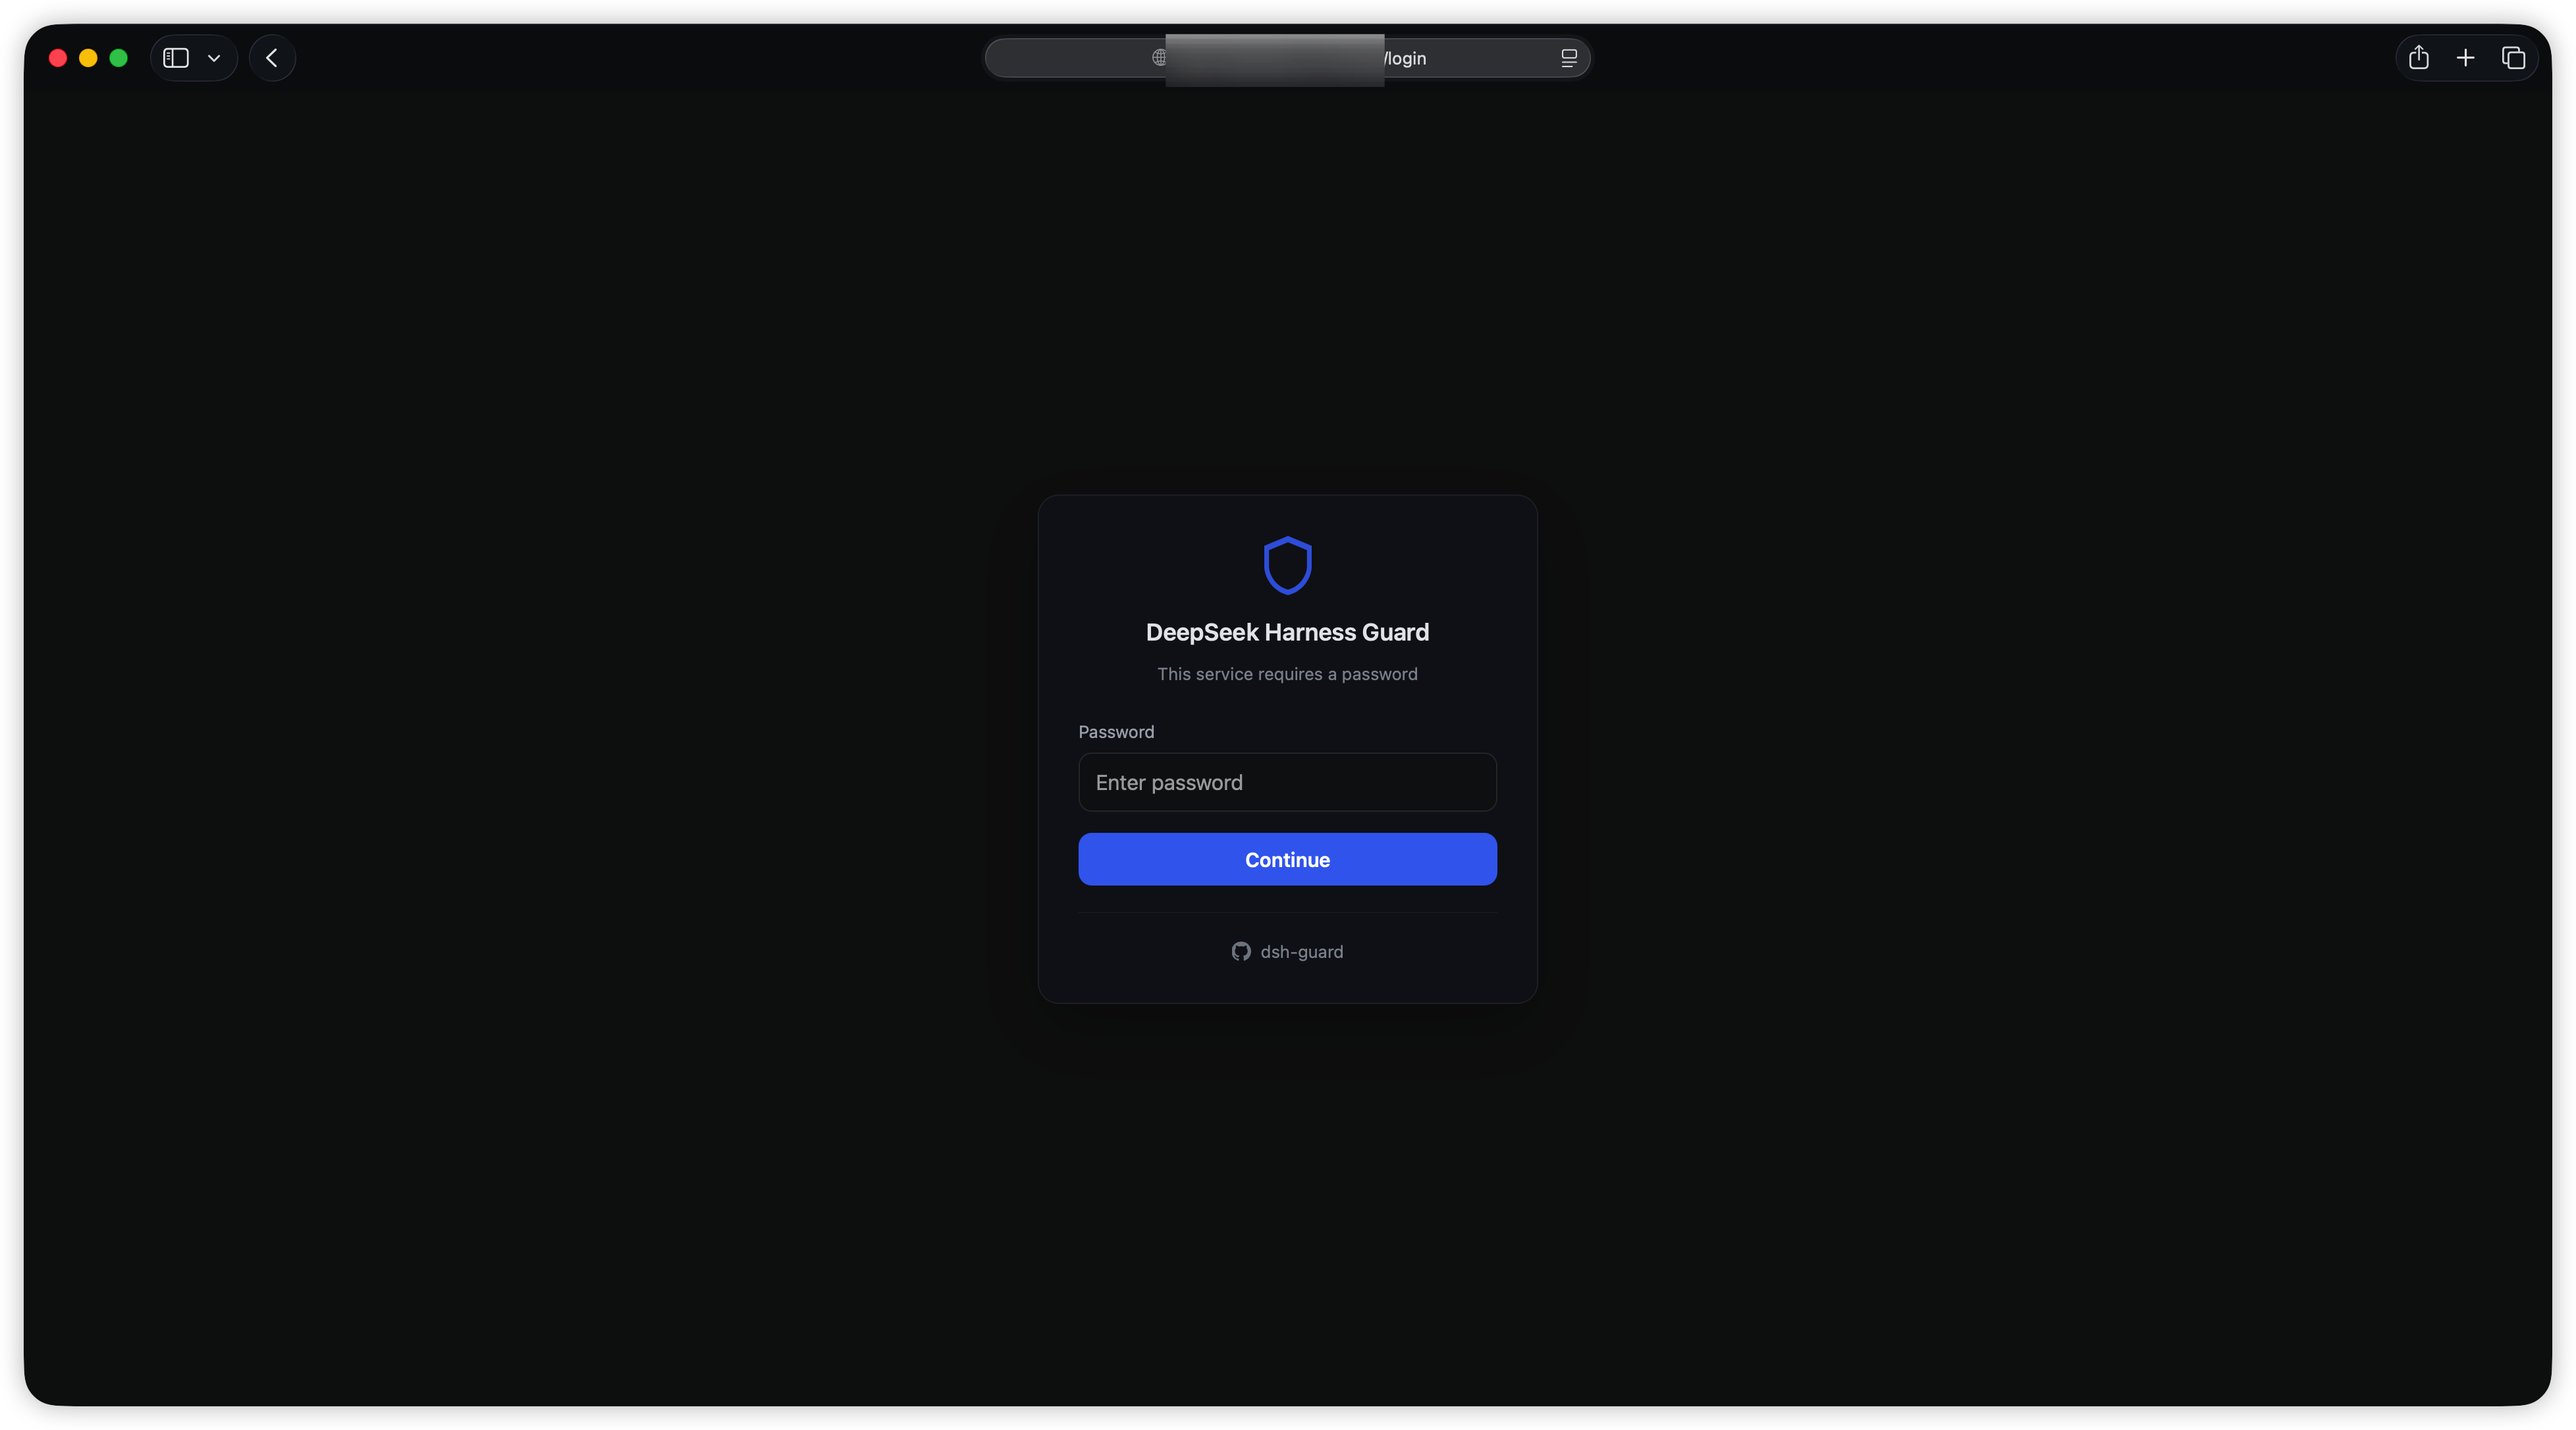
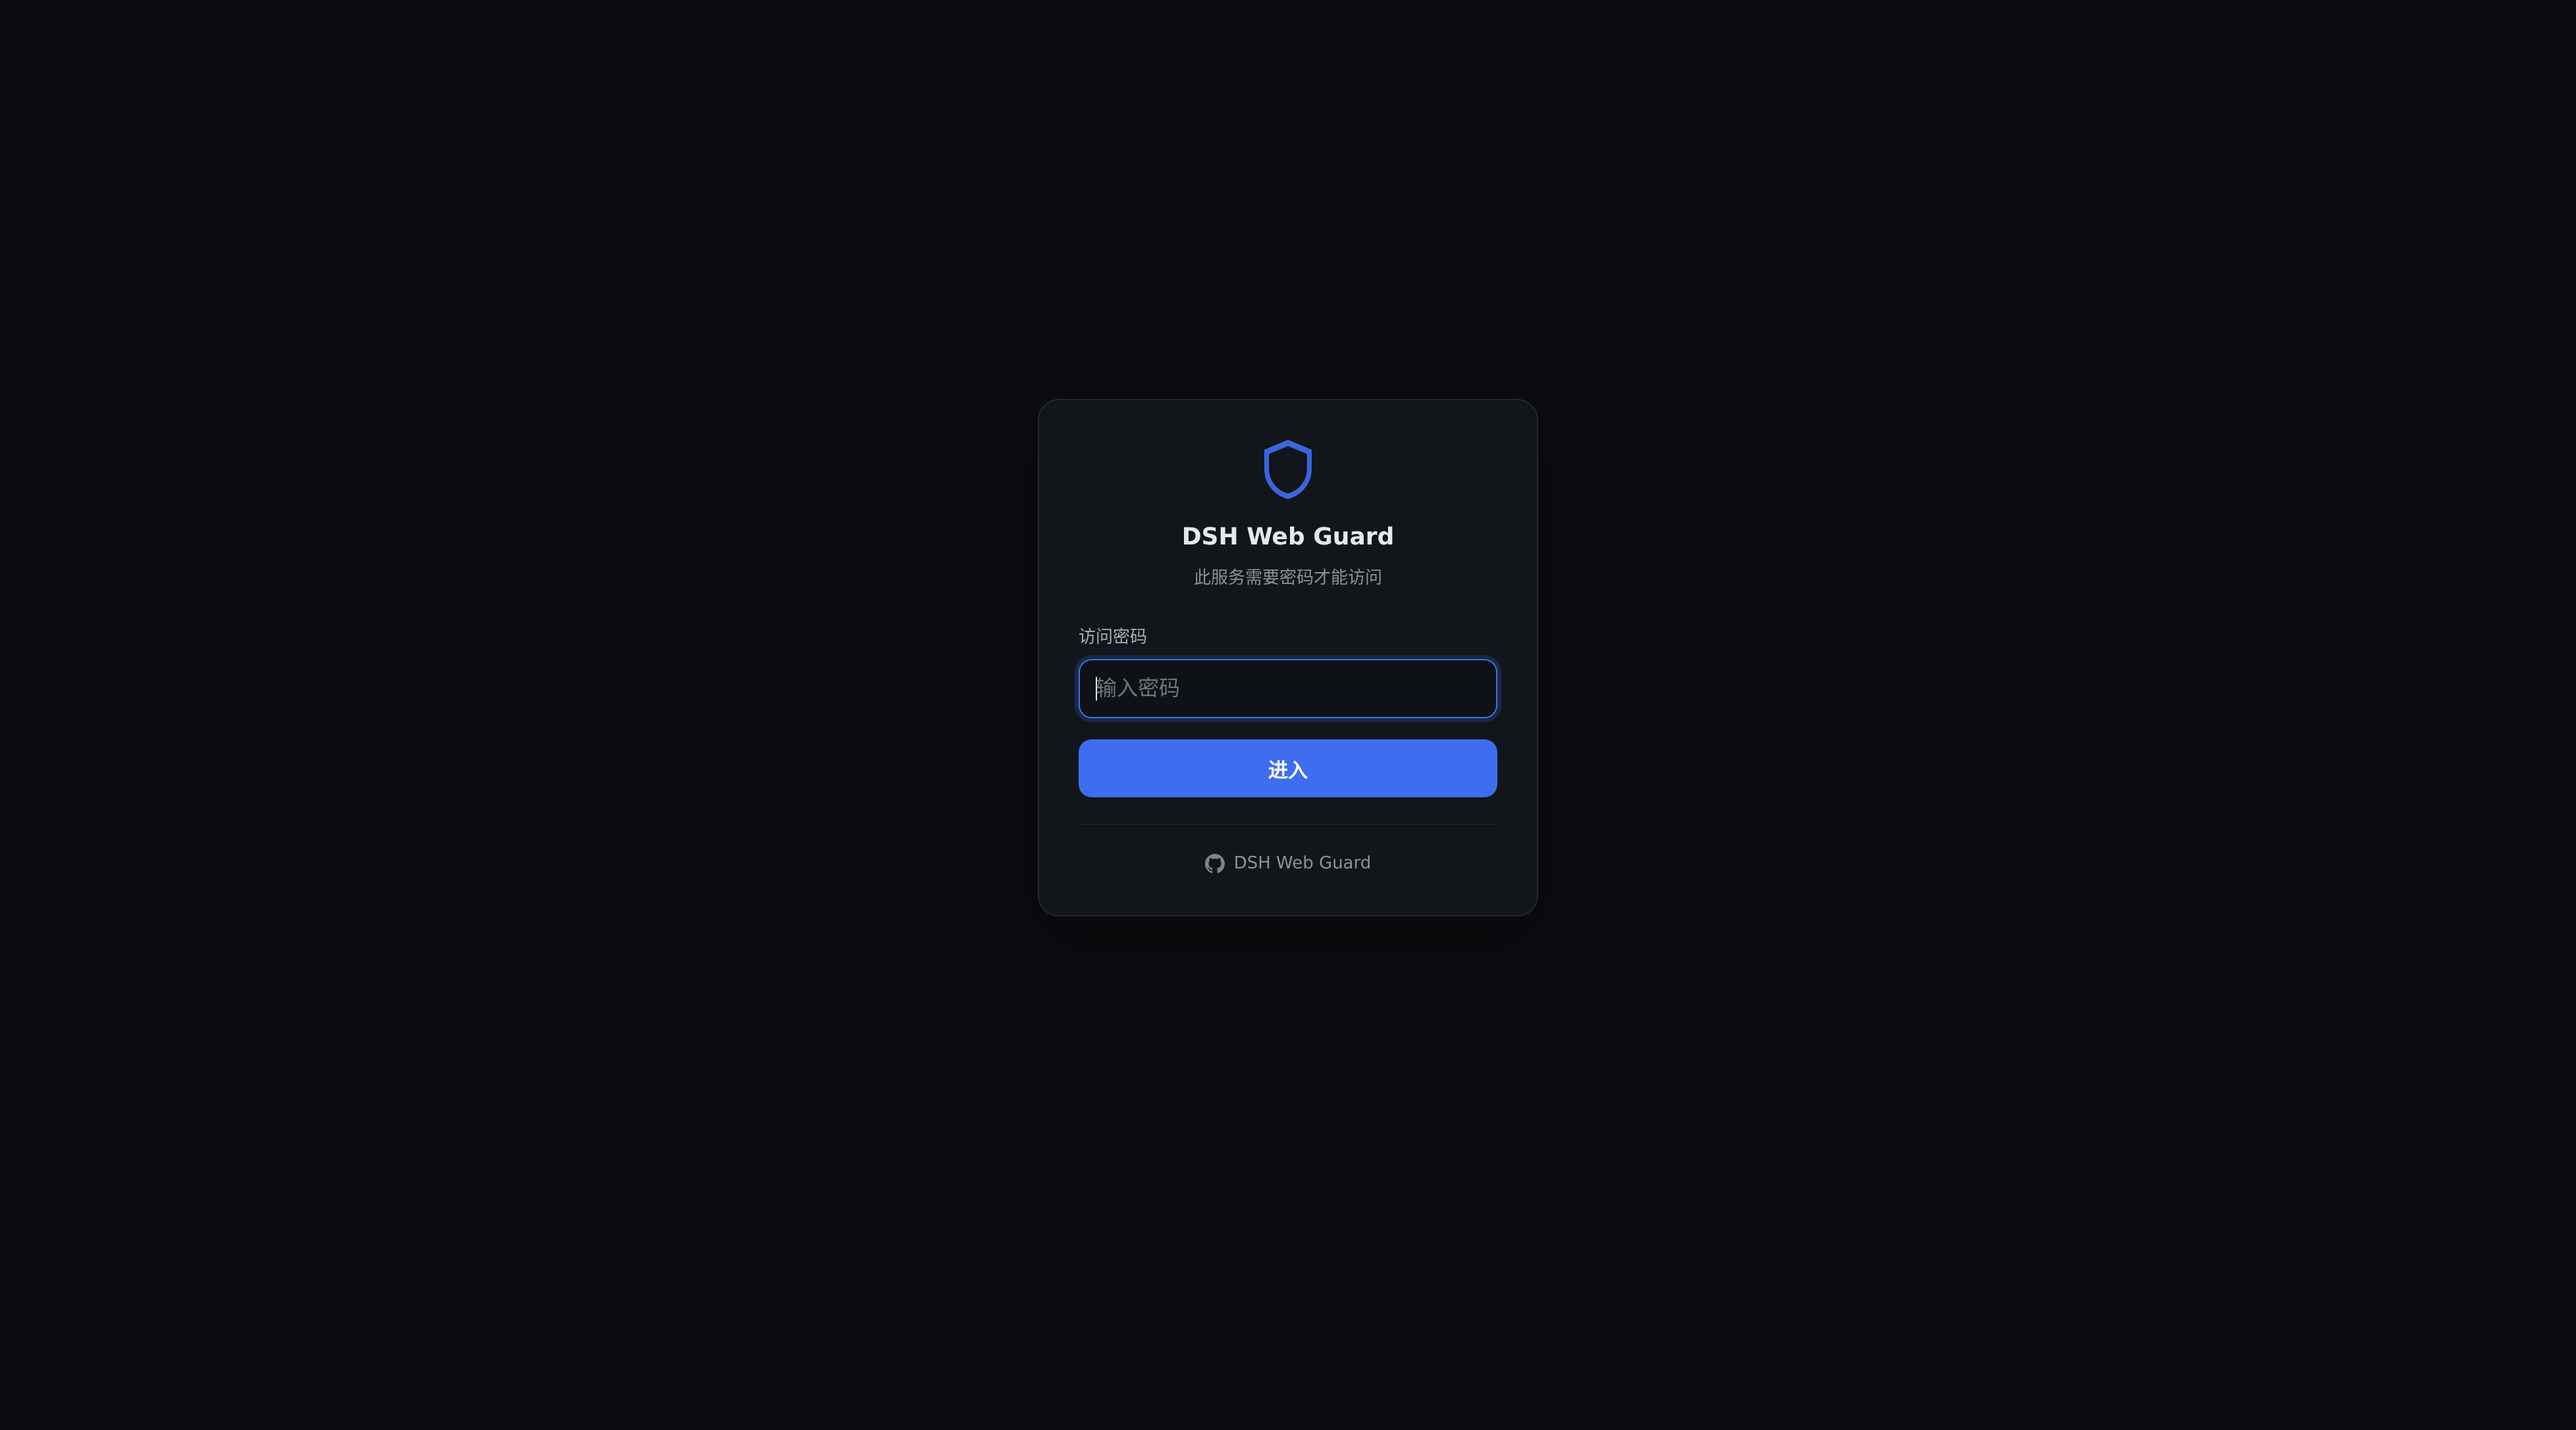
docs: refresh screenshots and add the admin page
Login, sign-out and admin pages re-shot in both languages against the
renamed build. Screenshots contain no public IPs or deployment hostnames.
Admin page title now reads DSH Web Guard instead of dsh-web-guard.

Changed region(s): [[0.0, 0.0, 1.0, 1.0], [0.4054, 0.3702, 0.5925, 0.6478]]

diff --git a/lib/i18n.js b/lib/i18n.js
@@ -88,8 +88,8 @@ export function ago(ms, locale) {
 
 const ZH = {
   locale: 'zh',
-  adminTitle: 'dsh-web-guard 设置',
-  pageTitleAdmin: 'dsh-web-guard 设置',
+  adminTitle: 'DSH Web Guard 设置',
+  pageTitleAdmin: 'DSH Web Guard 设置',
   backToDsh: '返回 DSH',
   signOut: '退出登录',
   secPassword: '登录密码',
@@ -142,8 +142,8 @@ const ZH = {
 
 const EN = {
   locale: 'en',
-  adminTitle: 'dsh-web-guard settings',
-  pageTitleAdmin: 'dsh-web-guard settings',
+  adminTitle: 'DSH Web Guard Settings',
+  pageTitleAdmin: 'DSH Web Guard Settings',
   backToDsh: 'Back to DSH',
   signOut: 'Sign out',
   secPassword: 'Password',

diff --git a/README.md b/README.md
@@ -23,12 +23,16 @@ Zero runtime dependencies (Node standard library only), no build step — `dsh p
 ## Screenshots
 
 <p align="center">
-  <img src="https://raw.githubusercontent.com/lvxianchao/dsh-web-guard/main/docs/login.png" width="47%" alt="Login page">
+  <img src="https://raw.githubusercontent.com/lvxianchao/dsh-web-guard/main/docs/login-en.png" width="47%" alt="Login page">
   &nbsp;
-  <img src="https://raw.githubusercontent.com/lvxianchao/dsh-web-guard/main/docs/logout.png" width="47%" alt="Signed-out page">
+  <img src="https://raw.githubusercontent.com/lvxianchao/dsh-web-guard/main/docs/logout-en.png" width="47%" alt="Signed-out page">
 </p>
 
-<p align="center"><sub>Login page &nbsp;·&nbsp; sign-out confirmation</sub></p>
+<p align="center">
+  <img src="https://raw.githubusercontent.com/lvxianchao/dsh-web-guard/main/docs/admin-en.png" width="92%" alt="Admin page">
+</p>
+
+<p align="center"><sub>Login page &nbsp;·&nbsp; sign-out confirmation &nbsp;·&nbsp; admin page (password, session and lockout policy, listener, live sessions)</sub></p>
 
 ## How it works
 

diff --git a/README.zh.md b/README.zh.md
@@ -28,7 +28,11 @@
   <img src="https://raw.githubusercontent.com/lvxianchao/dsh-web-guard/main/docs/logout.png" width="47%" alt="退出页">
 </p>
 
-<p align="center"><sub>登录页 &nbsp;·&nbsp; 退出确认页</sub></p>
+<p align="center">
+  <img src="https://raw.githubusercontent.com/lvxianchao/dsh-web-guard/main/docs/admin.png" width="92%" alt="设置页">
+</p>
+
+<p align="center"><sub>登录页 &nbsp;·&nbsp; 退出确认页 &nbsp;·&nbsp; 设置页（改密码、会话与锁定策略、监听地址、在线设备）</sub></p>
 
 ## 它怎么工作
 
